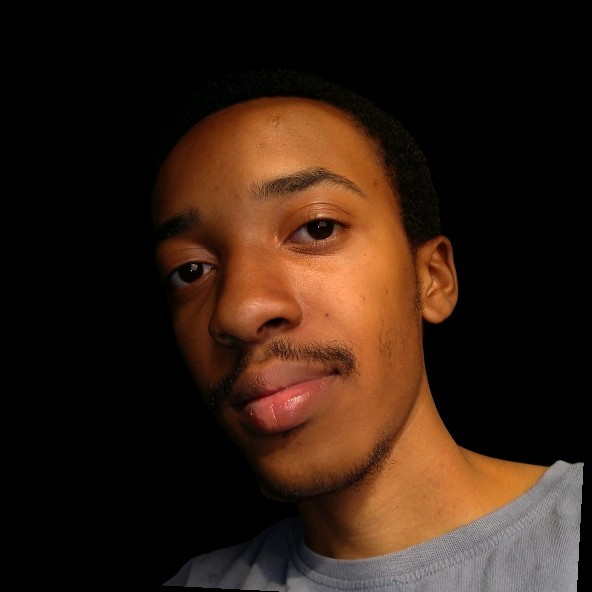
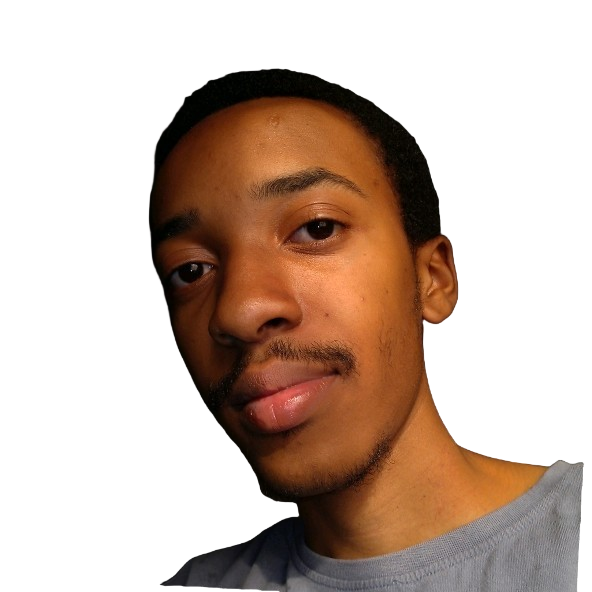
update

diff --git a/src/assets/images/WebDeveloper.tsx b/src/assets/images/WebDeveloper.tsx
@@ -1,236 +1,6 @@
+import myImage from "./me.png"
+
 const SvgWebDeveloper = () => (
-  <svg
-    xmlns="http://www.w3.org/2000/svg"
-    xmlnsXlink="http://www.w3.org/1999/xlink"
-    viewBox="0 0 400 300"
-  >
-    <linearGradient
-      id="web-developer_svg__a"
-      x1={311.03}
-      x2={332.41}
-      y1={208.3}
-      y2={188.56}
-      gradientUnits="userSpaceOnUse"
-    >
-      <stop offset={0} stopColor="#333" />
-      <stop offset={1} stopColor="#502019" />
-    </linearGradient>
-    <linearGradient
-      xlinkHref="#web-developer_svg__a"
-      id="web-developer_svg__b"
-      x1={137.47}
-      x2={163.23}
-      y1={235.44}
-      y2={211.66}
-    />
-    <linearGradient
-      xlinkHref="#web-developer_svg__a"
-      id="web-developer_svg__c"
-      x1={44.8}
-      x2={68.37}
-      y1={187.6}
-      y2={168.6}
-    />
-    <linearGradient
-      xlinkHref="#web-developer_svg__a"
-      id="web-developer_svg__d"
-      x1={189.93}
-      x2={218.27}
-      y1={210.01}
-      y2={172.22}
-    />
-    <path
-      className="fill-gray-400"
-      d="M194.51 291.25 22 189.3c-5.49-3.08-10.2-8.15-4.85-11.46l173.14-99.78c2.6-1.61 6.54-2.66 9.18-1.13L380.54 182c5.49 3.19 6.48 12.1 1 15.29l-164.29 93.8a22.94 22.94 0 0 1-22.74.16"
-    />
-    <path
-      fill="url(#web-developer_svg__b)"
-      d="M151 204.47c-15.86 9.25-27.19 15.46-51.58 29.38 18.46 11.22 34.6 19.46 36.68 20.68l53-30.09c-4.25-2.24-18.32-10.21-38.1-19.97"
-      opacity={0.32}
-    />
-    <path
-      fill="url(#web-developer_svg__c)"
-      d="M54.27 193.95c8.23-5.48 16.6-10.76 24.92-16.09l-11.82-8.63-45.78 19.1c5.53 2.9 13 8.33 20.86 13.86 3.91-2.79 7.82-5.58 11.82-8.24"
-      opacity={0.32}
-    />
-    <path
-      fill="#754c24"
-      d="M83.68 147.26a2.1 2.1 0 0 0-.37-.78 4.7 4.7 0 0 0-1.14-1c-5.81-3.93-13.86-5-20-1.17-1.4.88-3.49 2.87-2.66 4.75.48 1.09 1.94 1.73 3 2.17A44.6 44.6 0 0 0 73 154c1.3.22 2.62.44 3.93.56a5.43 5.43 0 0 0 4.79-2.05c.91-1.19 2.37-3.51 1.96-5.25"
-    />
-    <path
-      fill="#ff8f6f"
-      d="M59.34 148.2s5.3 4.8 14.46 4.1 9.87-5 9.87-5-2.37 30.36-3.62 30.88-5.93 2.78-8.19 2.95-9.4-2.69-9.58-3.48-2.94-29.45-2.94-29.45"
-    />
-    <path
-      fill="#007f68"
-      d="M61 104c-.28-.57-1.15-.07-.86.5 6.27 12.64 7.49 26.87 8.62 40.69.05.63 1.05.64 1 0-1.13-14.05-2.39-28.43-8.76-41.19"
-    />
-    <path
-      fill="#007f68"
-      d="M60.21 104.08s1.75 6.56-.06 9.84-3.3 3.93-1.14 8 7.94 4.62 8.32 7.74-2.76-20.01-7.12-25.58M80.26 115.92a82.45 82.45 0 0 0-8 32.26c0 .78 1.19.77 1.22 0a81 81 0 0 1 7.79-31.66c.38-.69-.67-1.31-1.01-.6"
-    />
-    <path
-      fill="#007f68"
-      d="M81.12 119.11c0-.66-.15-2-.08-3.11l-.7.44c-2.38 5.79-5.94 19.39-7 23.55 1.45-3.12 7.38-3.55 9.12-8a8.2 8.2 0 0 0 .1-5.91 21.8 21.8 0 0 1-1.44-6.97"
-    />
-    <path
-      fill="url(#web-developer_svg__d)"
-      d="M214.59 232.12c16.12-8.68 54.27-27.87 70.27-36.75l-92.08-57.61-66.44 45.11c16.86 8.82 64.92 34.82 88.25 49.25"
-      opacity={0.32}
-    />
-    <path
-      fill="#5b434d"
-      d="M136.88 135c.07 21.33.19 40.53.19 40.53s.45 1.74 3.66.32v-42.13c-1.28.43-2.56.84-3.85 1.28M226.07 186.84c.07 21.33.19 40.53.19 40.53s.45 1.74 3.66.32V185.6c-1.28.4-2.56.84-3.85 1.24M281 154.52c.07 21.33.19 40.53.19 40.53s.45 1.74 3.66.32v-42.09c-1.27.42-2.55.84-3.85 1.24"
-    />
-
-    <path fill="#333" d="M136.13 133.72v3.63l92.04 53.25 56.6-37.17.09-4.06" />
-
-    <path
-      className="fill-gray-600"
-      d="M136.13 133.72v3.63l92.04 53.25 56.6-37.17.09-4.06"
-      opacity={0.76}
-    />
-    <path
-      className="fill-gray-200"
-      d="m136.13 133.72 59.22-33.78 89.51 49.43-57.01 37.59z"
-    />
-
-    <path
-      fill="#56403d"
-      d="m218.31 116.14-12.47 6a2.87 2.87 0 0 0-.2 5.07l29.57 17.25a2.87 2.87 0 0 0 3.86-.93l7.18-11.17"
-    />
-    <path
-      fill="#333"
-      d="M281 84.17 179.13 25.5a3.31 3.31 0 0 0-5 2.87V90.7a2.56 2.56 0 0 0 1.28 2.21l108.39 62.57a1.23 1.23 0 0 0 1.85-1.07V92.33a9.42 9.42 0 0 0-4.65-8.16"
-    />
-    <path
-      className="fill-body-clr transition-colors duration-500"
-      d="m180.9 31 96.46 55.5a6.76 6.76 0 0 1 3.39 5.86v44.7a2.44 2.44 0 0 1-3.66 2.12l-98.37-56.44a2.41 2.41 0 0 1-1.21-2.09V33a2.27 2.27 0 0 1 3.39-2"
-    />
-    <ellipse
-      cx={222.52}
-      cy={115.11}
-      fill="#ab643c"
-      rx={1.05}
-      ry={0.01}
-      transform="rotate(-10.9 222.599 115.159)"
-    />
-    <ellipse cx={273.43} cy={87.89} fill="#659fe4" rx={1.05} ry={1.14} />
-    <ellipse cx={270.08} cy={86.22} fill="#c5e9ff" rx={1.05} ry={1.14} />
-    <path
-      className="stroke-accent-clr"
-      fill="none"
-      strokeMiterlimit={10}
-      strokeWidth={4}
-      d="m182.92 43.35 59.15 33.61"
-    />
-    <path
-      fill="none"
-      stroke="#d4145a"
-      strokeMiterlimit={10}
-      strokeWidth={4}
-      d="m183.13 52.14 9.58 5.44"
-    />
-    <path
-      fill="none"
-      stroke="#29abe2"
-      strokeMiterlimit={10}
-      strokeWidth={4}
-      d="m195.54 59.42 53.24 29.27"
-    />
-    <path
-      fill="none"
-      stroke="#f7931e"
-      strokeMiterlimit={10}
-      strokeWidth={4}
-      d="m182.92 60.16 20.44 11.27"
-    />
-    <path
-      className="stroke-text-clr transition-colors duration-500"
-      fill="none"
-      strokeMiterlimit={10}
-      strokeWidth={4}
-      d="m206.75 73.57 44.83 23.98"
-    />
-    <path
-      className="fill-accent-clr"
-      d="M316.58 80.64v43a4.79 4.79 0 0 1-7.25 4.12l-40.91-24.4a4.79 4.79 0 0 1-2.34-4.12V57a4.79 4.79 0 0 1 7.19-4.15l40.91 23.62a4.79 4.79 0 0 1 2.4 4.17"
-    />
-    <path
-      fill="none"
-      stroke="#006837"
-      strokeMiterlimit={10}
-      strokeWidth={4}
-      d="m287.38 75.78-13.26 9.75 11.89 16.69M299.11 82.82l9.76 19.06-13.72 6.4"
-    />
-    <path
-      fill="#200a52"
-      d="m183.77 122.22-21.49 12.28a1.48 1.48 0 0 0 0 2.56L222 171.39a4.77 4.77 0 0 0 4.76 0l20.11-11.61a1.54 1.54 0 0 0 0-2.67l-60.4-34.89a2.67 2.67 0 0 0-2.7 0"
-    />
-    <g fill="#fff">
-      <path d="m216.24 141.8-6.13 3.64 4.55 2.64 6.16-3.62zM209.52 137.89l-6.13 3.64 5.77 3.35 6.16-3.62zM185.1 123.71l-6.23 3.58 5.54 3.22 6.16-3.62zM198.23 131.34 192.1 135l4.55 2.64 6.16-3.62zM191.51 127.43l-6.13 3.64 5.76 3.35c.68-.39 4.54-2.67 6.16-3.62zM221.75 145l-6.13 3.64 4.36 2.53 6.15-3.62zM203.74 134.54l-6.13 3.64 4.82 2.8 6.16-3.62zM227.07 148.08l-6.13 3.64 5.77 3.35 6.16-3.62zM233.79 151.99l-6.14 3.63 10.35 6.01 6.23-3.58zM178.08 128.35l-6.23 3.58 8.06 4.68 6.16-3.62zM193.72 137.43l-6.13 3.64 4.55 2.64 6.16-3.62zM205 144l-6.13 3.64 5.77 3.35 6.16-3.62zM199.23 140.63l-6.13 3.64 4.82 2.8 6.16-3.62zM211.73 147.89l-6.13 3.64 4.55 2.64 6.15-3.62zM217.24 151.09l-6.13 3.64 4.36 2.53 6.15-3.62zM187 133.53l-6.13 3.64 5.76 3.35 6.16-3.62zM222.55 154.18l-6.13 3.64 5.77 3.35 6.15-3.62zM223.14 161.72l7.83 4.55 6.24-3.58-7.94-4.61zM218.55 161.09l-4.56 2.72 5.29 3.06 4.63-2.66zM220.38 167.51l4.5 2.6 4.64-2.65-4.59-2.66zM170.39 133.12l-4.78 2.66 5.42 3.13 4.69-2.69zM176.73 136.81l-4.61 2.74 5.79 3.35 4.68-2.69zM183.61 140.8l-4.6 2.74 33.88 19.63 4.64-2.67z" />
-    </g>
-
-    <path
-      fill="#333"
-      d="M162.47 168c-4.64-3.24-10.1-5-16-3.72-6.28 1.38-11.72 5.33-18.12 6.3-1 .15-5.05-.11-5.67.48-17.81 16.86 32 15.05 32 15.05 4.83-4 9.38-7.85 14.18-11.85-1.46-3.2-3.86-4.48-6.39-6.26M139 192.48l-1.77 50.86c-.07 1.93 2.93 1.93 3 0l1.77-50.86c.1-1.93-2.89-1.92-3 0M176.37 219.69q-13.6-13.31-26-27.78c-1.26-1.47-3.37.66-2.12 2.12q12.38 14.46 26 27.78c1.38 1.35 3.51-.81 2.12-2.12"
-    />
-    <path
-      fill="#333"
-      d="M128.64 187.78q-10.56 19.93-19.89 40.47c-.79 1.74 1.79 3.27 2.59 1.51q9.33-20.54 19.89-40.47c.9-1.7-1.68-3.22-2.59-1.51"
-    />
-    <path
-      fill="#fcbf81"
-      d="M163.71 134c.61-.15 5.74-1.47 7-1.89s5.16-3.45 7.28-3 6.39 3.26 6.59 4.2-1 2.08-1.45 2.49-3.54-.72-4.74-.91-3.11 2.65-4.24 3.15-8.43 1.81-8.43 1.81M177.5 146.46c.61-.15 5.74-1.47 7-1.89s5.16-3.45 7.28-3 6.39 3.26 6.59 4.2-1 2.08-1.45 2.49-3.54-.72-4.74-.91-3.11 2.65-4.24 3.15-8.43 1.81-8.43 1.81"
-    />
-    <path
-      fill="#56403d"
-      d="M175.51 211.09c.93-1 1.54-2 1.22-3.05-.57-1.87-3.11-2.63-4.85-2.53s-3.54 1-5.3 1.5a13.2 13.2 0 0 1-5.75.71 1.28 1.28 0 0 1-.8-.45 3.17 3.17 0 0 1-2.33-2.12l-5.76-2.06s-1.47 12.17-1.42 13c.43 6.57 10.24 2.82 10.24 2.82s.35-3 .44-3.37 3.85.77 5.4.53a6.8 6.8 0 0 0 2-.93c1.16-.64 2.3-1.32 3.43-2s2.31-1.35 3.48-2.05"
-    />
-    <path
-      fill="#34323d"
-      d="M154 166.17c-2.16.21-4.32.49-6.47.8q1.34 20.73 3 41.43c5.6 2.29 7.87 1.23 11.34-2.32.66-13.17 1.81-27 1.78-40.28-3.2.14-6.42.28-9.65.37"
-    />
-    <path
-      fill="#34323d"
-      d="M130.73 162.38s-.93 15.13 6.67 18.5 23.19 1.69 30.86-2.81a83 83 0 0 1 12.44-6.21s2-6.62-2.81-9.48-15.35-6.4-24.73 0"
-    />
-    <path
-      fill="#ba3e00"
-      d="M169.48 139.73c.81-3.09.34-8.19.34-8.19s-9.49 1.62-13.49 1-10.54-9-10.54-9l.89 16.6c7.58 1.59 15.43 1.93 22.8-.41"
-    />
-    <path
-      fill="#56403d"
-      d="M193.06 220.57c.93-1 1.54-2 1.22-3.05-.57-1.87-3.11-2.63-4.85-2.53s-3.54 1-5.3 1.5a13.2 13.2 0 0 1-5.75.71 1.28 1.28 0 0 1-.8-.45 3.17 3.17 0 0 1-2.33-2.12l-5.76-2.06s-1.47 12.17-1.42 13c.43 6.57 10.24 2.82 10.24 2.82s.35-3 .44-3.37 3.85.77 5.4.53a6.8 6.8 0 0 0 2-.93c1.16-.64 2.3-1.32 3.43-2s2.32-1.35 3.48-2.05"
-    />
-    <path
-      fill="#34323d"
-      d="M170.9 162.75c-2-.94-4.06-.84-6.44-.83.33 4.87.15 6.62.45 11.48l.08 1.29c.92 14.4 2 28.79 3.1 43.18 5.6 2.29 7.87 1.23 11.34-2.32.77-15.33 2.22-31.51 1.66-46.77-3.23-3.2-6.09-4.11-10.19-6.03"
-    />
-    <path
-      fill="#e55600"
-      d="M130.6 159.25c0 .37.07 1.62.13 3.13 3.15 4.15 7 6.58 13 6.4 4.89-.14 9-2.28 12.8-4.92-.48-8.85-1.91-24-4.14-34.53-.19-.89-2.5-1.49-3.18-1.86-1.59-.87-.66-2.37-2.22-3.3a53.5 53.5 0 0 0-7.05-3.44h-.06c-3.89-.06-10.6 2.94-11 8.15-.61 8 .27 12.85.89 20.84.23 3.22.56 6.4.83 9.53"
-    />
-    <path
-      fill="#fcbf81"
-      d="M144.15 105.56c.51.13 4.83 10.07 3.14 16.11s-11.95-.17-14.53-4.77 1.69-13.9 11.39-11.34"
-    />
-    <path
-      fill="#34323d"
-      d="M144 106.95s0 3.28-2.87 4.34-5.26 1.77-5.1 3.1 5.19-.19 5.21 2.85a22.7 22.7 0 0 1-.82 6.06c-.32 1.49-8.93-3.08-11.77-10.86s4.27-9.85 4.62-9.9 1-2.17 4.47-2.93 4.47.6 4.47.6a4.23 4.23 0 0 1 5.09.55c3.21 2.55 2.4 7.21-1.24 9.1z"
-    />
-    <path
-      fill="#e55600"
-      d="M183.6 144c-4.47.93-13.55 2.41-16.76 1-2.49-1.09-10.8-18.91-19.83-20.82l-1.22 13.6s12.77 16.2 18.67 17.87c4.29 1.21 15.84-.41 20.91-2.17a19.35 19.35 0 0 0-1.77-9.48"
-    />
-    <path
-      fill="#34323d"
-      d="M155.31 148.19c-.65-.84-8.05-9.22-8.05-9.22l8.89 18.21z"
-    />
-    <path
-      className="fill-blue-300"
-      d="M168.16 174a22.48 22.48 0 0 1-11.24 8.25c-6.34 1.93-15.56 1-18.89-5.61-6.06-12.06-.37-27.16-6.77-38.89a11.76 11.76 0 0 0-7.43-6.1c-4.15-.91-7 2.21-8.5 5.88-2.7 6.58-2.6 14.77-2.47 21.78a119 119 0 0 0 1.23 16.92s3.88 23.51 34.12 17.2a45.5 45.5 0 0 0 14.86-5.5 20.5 20.5 0 0 0 6.06-5.33c1.87-2.72.62-5.91-.97-8.6"
-    />
-  </svg>
+<img src={myImage} alt="Web Developer"/>
 );
 export default SvgWebDeveloper;

diff --git a/src/components/about/About.tsx b/src/components/about/About.tsx
@@ -46,23 +46,37 @@ const About = () => {
         </motion.div>
 
         <motion.div
-          className="flex-1 p-4 flex flex-col gap-8 justify-center"
+          className="flex-1 p-4 flex flex-col gap-8 justify-center  shadow-white shadow-lg"
           custom={3}
           variants={textAnimation}
         >
           <p className="text-lg">
-          Hi! My name is Sisanda Vukile Shwala and I am a web developer who is passionate about creating creative, practical and responsive web applications. I am a fast learner and always looking to expand my knowledge and skills.
-
-My portfolio features a few select apps, and the link below shows (almost) all the projects I've worked on.
-
-My goal is to continue to improve as a developer and take part in the creation of high-quality and effective products.
+          Hi! My name is Sisanda Vukile Shwala and I am a <span className="text-accent-clr">Junior Full Stack Developer</span> who is passionate about creating visually appealing, functional applications. I strive to upskill myself in various technologies.
           </p>
           <p className="text-lg">
-          My portfolio features a few select apps, and the link below shows (almost) all the projects I've worked on.
+          My portfolio features a few select apps that I have worked on.
           </p>
           <p className="text-lg">
           My goal is to continue to improve as a developer and take part in the creation of high-quality and effective products.
           </p>
+          <div className="education flex gap-4">
+            <div className="flex flex-col gap-2">
+              <h3 className="text-xl font-medium text-accent-clr">Education</h3>
+              <div className="flex flex-col gap-2 w-[200px] shadow-accent-clr">
+              <p className="text-lg ">BSc in Mathematics and Computer Science <span className="text-sm">University of South Africa</span></p>
+              </div>
+              <div className="flex flex-col gap-2 w-[200px]">
+              <p className="text-lg">Certificate in Software Engineering</p>
+              <p className="text-sm">ALX</p>
+              </div>
+            </div>
+            <div className="experience flex flex-col gap-2 ml-[120px]">
+              <h3 className="text-xl font-medium text-accent-clr">Experience</h3>
+              <p className="text-lg">Junior Full Stack Developer - Shaper </p>
+              <small className="text-sm">2024-10-01 - 2025-03-31</small>
+              
+              </div>
+          </div>
           <motion.div
             className="flex gap-4"
             custom={4}

diff --git a/src/components/skills/SkillsData.ts b/src/components/skills/SkillsData.ts
@@ -1,34 +1,44 @@
-export const skills: { name: string; icon: string }[] = [
+export const skills: { name: string; icon: string; color?: string }[] = [
   {
     name: "TypeScript",
     icon: "bx bxl-typescript",
+    color: "#007ACC",
   },
   {
     name: "React",
     icon: "bx bxl-react",
+    color: "#61DAFB",
+    
   },
   {
     "name": "PostgreSQL",
     "icon": "devicon-postgresql-plain",
+    "color": "#336791"
   },
   {
     name: "Angular",
     icon: "bx bxl-angular",
+    color: "#DD0031",
   },
   {
     name: "Tailwind",
     icon: "bx bxl-tailwind-css",
+    color: "#06B6D4",
   },
   {
     name: "Node JS",
     icon: "bx bxl-nodejs",
+    color: "#339933",
   },
   {
     name: "Express",
     icon: "devicon-express-original",
+    color: "#000000",
   },
   {
     name: "Spring Boot",
     icon: "bx bxl-java",
+    color: "#000000",
+    
   },
 ];

diff --git a/src/components/ProjectsData.ts b/src/components/ProjectsData.ts
@@ -20,19 +20,19 @@ export const items: IProject[] = [
     source: "https://github.com/SisandaSH/Mqingwana-attorneys.git",
     short: "Law Firm",
     tags: [
- 
+      "Project",
     ],
   },
   {
     title: "Restaurant Chooser",
     img: restaurant,
     desc: "An app that helps partners and families to feast on the best meals that all can enjoy",
-    live: "https://restaurant-chooser-webstack-project-ipr85h7ah.vercel.app",
-    source: "https://github.com/SisandaSH/Webstack-Portfolio-Project.git",
+    live: "https://restaurant-chooser-csywjp39u-sisandashs-projects.vercel.app/",
+    source: "https://github.com/SisandaSH/Restaurant-Chooser.git",
     short:
       "Restaurant App",
     tags: [
-      "Projects",
+      
  
     ],
   },

diff --git a/src/App.tsx b/src/App.tsx
@@ -10,7 +10,11 @@ import { ReactLenis } from "lenis/dist/lenis-react";
 import { useEffect, useState } from "react";
 import Projects from "./components/projects/Projects";
 
+
+
+
 function App() {
+
   // checking theme
   const [dark, setDark] = useState(
     localStorage.theme === "dark" ||
@@ -51,6 +55,7 @@ function App() {
   }, []);
 
   return (
+    
     <ReactLenis root>
       <div className="bg-body-clr transition-colors duration-500">
         <Header inView={inView} dark={dark} setDark={setDark} />

diff --git a/src/components/footer/Footer.tsx b/src/components/footer/Footer.tsx
@@ -22,6 +22,11 @@ const links = [
     href: CV,
     icon: "bx bx-file",
   },
+  {
+    name: "LinkedIn",
+    href: "linkedin.com/in/sisanda-shwala-4b290625b",
+    icon: "bx bxl-linkedin",
+  },
 ];
 
 export default function Footer() {
